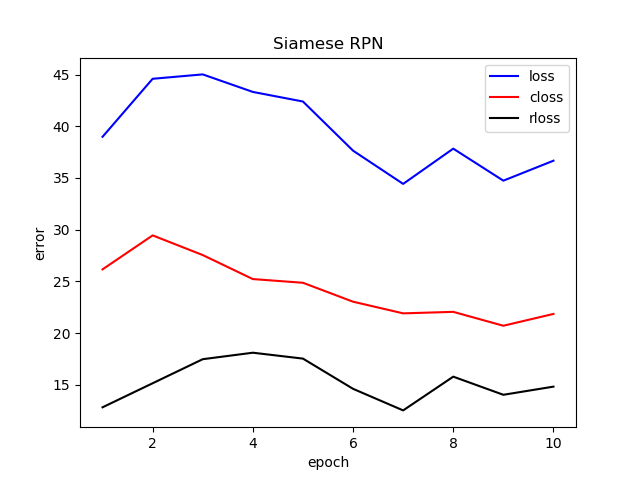
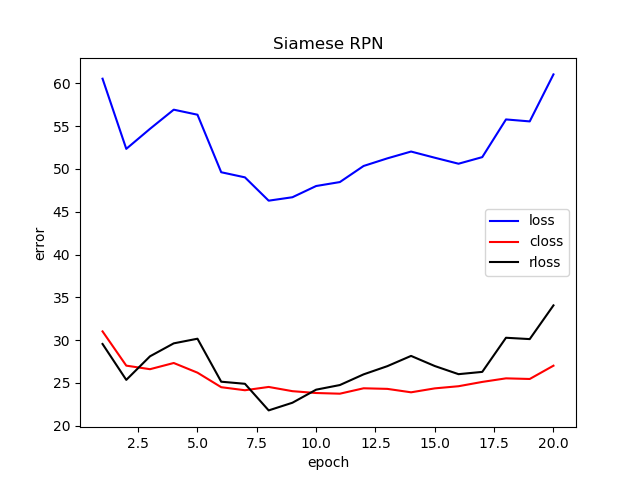
Update

diff --git a/train/train_siamrpn.py b/train/train_siamrpn.py
@@ -4,6 +4,7 @@ import sys
 import json
 import torch
 import random
+import logging
 import argparse
 import numpy as np
 from tqdm import tqdm
@@ -30,7 +31,12 @@ def main():
     model = TrackerSiamRPN()
 
     '''setup data loader'''
-    data_loader = TrainDataLoader(args.train_path)
+    data_loader  = TrainDataLoader(args.train_path)
+    train_loader = DataLoader(  dataset    = data_loader,
+                                batch_size = 1,
+                                shuffle    = True,
+                                num_workers= 1,
+                                pin_memory = True)
 
     '''load weights'''
     init_weights(model)
@@ -45,39 +51,44 @@ def main():
 
     '''train phase'''
     closses, rlosses, tlosses, steps = AverageMeter(), AverageMeter(), AverageMeter(), AverageMeter()
+
     for epoch in range(config.epoches):
-        for example in tqdm(range(10)):
+        print('Train epoch {}/{}'.format(epoch+1, config.epoches))
+        with tqdm(total=config.train_epoch_size) as progbar:
+            for i, dataset in enumerate(train_loader):
 
-            index_list = range(data_loader.__len__())
-            closs, rloss, loss, cur_lr = model.step(epoch, data_loader, example, index_list, backward=True)
+                index_list = range(data_loader.__len__())
+                closs, rloss, loss, cur_lr = model.step(epoch, dataset, backward=True)
 
-            closs_ = closs.cpu().item()
+                closs_ = closs.cpu().item()
 
-            if np.isnan(closs_):
-               sys.exit(0)
+                if np.isnan(closs_):
+                   sys.exit(0)
 
-            closses.update(closs.cpu().item())
-            closses.closs_array.append(closses.avg)
+                closses.update(closs.cpu().item())
+                closses.closs_array.append(closses.avg)
 
-            rlosses.update(rloss.cpu().item())
-            rlosses.rloss_array.append(rlosses.avg)
+                rlosses.update(rloss.cpu().item())
+                rlosses.rloss_array.append(rlosses.avg)
 
-            tlosses.update(loss.cpu().item())
-            tlosses.loss_array.append(tlosses.avg)
+                tlosses.update(loss.cpu().item())
+                tlosses.loss_array.append(tlosses.avg)
 
-            steps.update(tlosses.count)
-            steps.steps_array.append(steps.count)
+                steps.update(tlosses.count)
+                steps.steps_array.append(steps.count)
 
-            if example % 1 == 0:
-                print("Train epoch:{:04d}\texample:{:06d}/{:06d}({:.2f})%\tlr:{:.7f}\tcloss:{:.4f}\trloss:{:.4f}\ttloss:{:.4f}".format((epoch+1),
-                        steps.count, data_loader._max_batches(), 100*(steps.count)/data_loader._max_batches(),
-                        cur_lr, closses.avg, rlosses.avg, tlosses.avg ))
+                progbar.set_postfix(closs='{:05.3f}'.format(closses.avg), rloss='{:05.3f}'.format(rlosses.avg), tloss='{:05.3f}'.format(tlosses.avg))
 
-        '''save plot'''
-        steps.plot(exp_name_dir)
+                progbar.update()
+                if i >= config.train_epoch_size - 1:
+                    '''save plot'''
+                    steps.plot(exp_name_dir)
 
-        '''save model'''
-        model.save(model, exp_name_dir, epoch)
+                    '''save model'''
+                    model.save(model, exp_name_dir, epoch)
+
+                    break
+
 
 def init_weights(model, init_type='normal', gain=0.02):
     def init_func(m):

diff --git a/train/net.py b/train/net.py
@@ -100,7 +100,7 @@ class TrackerSiamRPN(Tracker):
             momentum     = config.momentum,
             weight_decay = config.weight_decay)
 
-    def step(self, epoch, data_loader, example, index_list, backward=True):
+    def step(self, epoch, dataset, backward=True):
 
         if backward:
             self.net.train()
@@ -109,7 +109,7 @@ class TrackerSiamRPN(Tracker):
 
         cur_lr = adjust_learning_rate(config.lr, self.optimizer, epoch, gamma=0.1)
 
-        template, detection, pos_neg_diff = data_loader.__getitem__(random.choice(index_list))
+        template, detection, pos_neg_diff = dataset
         if self.cuda:
             template, detection, pos_neg_diff = template.cuda(), detection.cuda(), pos_neg_diff.cuda()
 
@@ -119,7 +119,7 @@ class TrackerSiamRPN(Tracker):
 
         rout = rout.squeeze().permute(1,2,0).reshape(-1, 4) # 8 is batch_size
 
-        predictions, targets = (cout, rout), pos_neg_diff
+        predictions, targets = (cout, rout), pos_neg_diff.squeeze()
 
         closs, rloss, loss = self.criterion(predictions, targets)
 

diff --git a/train/data.py b/train/data.py
@@ -303,9 +303,9 @@ class TrainDataLoader(Dataset):
         transform = self.get_transform_for_train()
         template_tensor = transform(template_pil)
         detection_tensor= transform(detection_pil)
-        self.ret['template_tensor'] = template_tensor.unsqueeze(0)
+        self.ret['template_tensor'] = template_tensor#.unsqueeze(0)
 
-        self.ret['detection_tensor']= detection_tensor.unsqueeze(0)
+        self.ret['detection_tensor']= detection_tensor#.unsqueeze(0)
 
         self.ret['pos_neg_diff_tensor'] = torch.Tensor(pos_neg_diff)
 
@@ -323,7 +323,7 @@ class TrainDataLoader(Dataset):
     def _max_batches(self):
         a = 0
         for root, dirs, files in os.walk(self.img_dir_path):
-            
+
             for dirname in dirs:
                 dir_path = os.path.join(root, dirname)
                 a += len(os.listdir(dir_path))

diff --git a/train/config.py b/train/config.py
@@ -1,10 +1,11 @@
 class Config(object):
-    
+
     template_img_size = 127
     detection_img_size = 271
+    epoches = 200
+    train_epoch_size = 1000
     stride = 8
     lr = 1e-5
-    epoches = 200
     weight_decay = 0.0005
     momentum = 0.9
     context = 0.5
